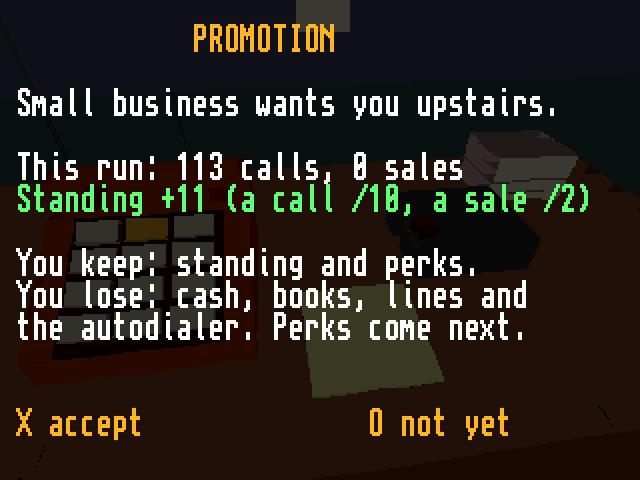
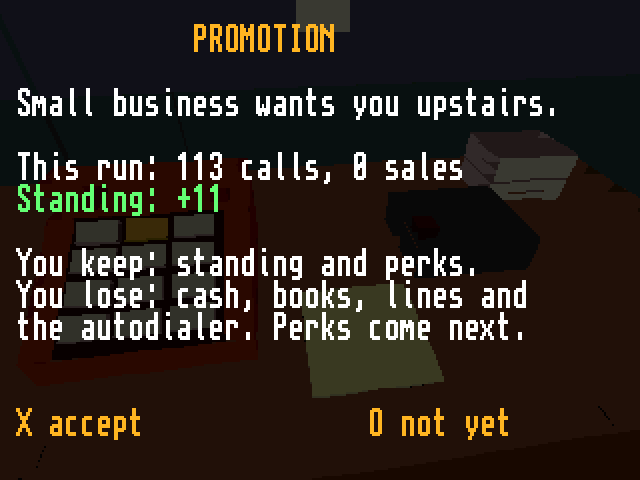
Phone books: autodialer needs a 2nd line, corp hands over a book you cannot afford, note scene goes quiet
The first autodialer was sellable with one line and then had nothing to dial on; the corp now rescues a game where every owned number is called and no book is affordable; the note screen's fast busy never stopped and now lasts 90 ticks; the promotion screen only says Standing: +N.

Changed region(s): [[0.25, 0.375, 0.625, 0.4375], [0.6562, 0.375, 0.9375, 0.4375]]

diff --git a/src/book_scene.cpp b/src/book_scene.cpp
@@ -185,6 +185,11 @@ void BookScene::start(StartReason reason) {
 		m_sim.DebugCash(DIALTONE_START_CASH);
 	}
 #endif
+#ifdef DIALTONE_FIRSTDONE
+	if (status != SaveSlot::Status::Loaded) {
+		m_sim.DebugFirstDone();
+	}
+#endif
 #ifdef DIALTONE_PREDIAL
 	// test builds: every residential book yours, every number but the last DIALTONE_PREDIAL called
 	if (status != SaveSlot::Status::Loaded) {
@@ -338,7 +343,8 @@ bool BookScene::ShopCategoryAffordable(uint8_t cat) const {
 	uint8_t first = cat == 0 ? 0 : 1, last = cat == 0 ? 1 : BookSim::SHOP_ENTRIES;
 	for (uint8_t i = first; i < last; i++) {
 		uint32_t price = m_sim.ShopPrice(i);
-		if (price && !(i >= 2 && !m_sim.HasAutodialer()) && !m_sim.ShopLocked(i) && m_sim.Cash() >= price) {
+		if (price && !(i >= 2 && !m_sim.HasAutodialer()) && !m_sim.ShopLocked(i) && !m_sim.ShopNeedsLine(i) &&
+			m_sim.Cash() >= price) {
 			return true;
 		}
 	}
@@ -462,9 +468,7 @@ void BookScene::HandleMenuButton(psyqo::AdvancedPad::Button button) {
 
 void BookScene::AfterPromotion(void) {
 	// a new desk: the lines, the autodialer and the books are gone, whatever was ringing stops
-	m_tones.Line(0, Tones::Cue::None);
-	m_tones.Line(1, Tones::Cue::None);
-	m_toneStop[0] = m_toneStop[1] = 0;
+	StopTones();
 	m_panelBook = m_sim.FirstOwned();
 	m_panelSel = 0;
 	m_panel = m_shop = false;
@@ -575,6 +579,7 @@ void BookScene::HandleButton(psyqo::AdvancedPad::Button button) {
 	if (m_noteScene) {
 		if (m_noteStep >= 6 && (button == Button::Cross || button == Button::Start)) {
 			m_noteScene = false;
+			StopTones();
 			m_sim.NoteSceneOver();
 			ClearOverlay();
 			RequestSave();
@@ -791,6 +796,19 @@ void BookScene::OnBookDone(uint8_t book) {
 	RequestSave();
 }
 
+void BookScene::OnBookGiven(uint8_t book) {
+	char top[40];
+	snprintf(top, sizeof(top), "   The corp sends you %s", BookSim::c_books[book].name);
+	Banner(240, c_amber, top, "   On the house. Start dialing.");
+	m_tones.Win();
+	if (m_sim.BookDone(m_panelBook)) {
+		m_panelBook = book;
+		m_panelSel = 0;
+		ClearPanel();
+	}
+	RequestSave();
+}
+
 void BookScene::OnNote(void) {
 	char number[8], text[10], top[40];
 	m_sim.NoteNumber(number);
@@ -805,7 +823,14 @@ void BookScene::OnNote(void) {
 	RequestSave();
 }
 
+void BookScene::StopTones(void) {
+	m_tones.Line(0, Tones::Cue::None);
+	m_tones.Line(1, Tones::Cue::None);
+	m_toneStop[0] = m_toneStop[1] = 0;
+}
+
 void BookScene::OnNoteAnswered(void) {
+	StopTones();
 	m_noteScene = true;
 	m_noteStep = 1;
 	m_noteTimer = NOTE_LINE_TICKS;
@@ -1011,6 +1036,8 @@ void BookScene::UpdateShop(void) {
 			SetRow(r++, c_grey, "%c%-17s needs autodialer", cursor, name);
 		} else if (price == 0) {
 			SetRow(r++, c_grey, "%c%-17s all bought", cursor, name);
+		} else if (m_sim.ShopNeedsLine(i)) {
+			SetRow(r++, c_grey, "%c%-17s needs a 2nd line", cursor, name);
 		} else if (m_sim.ShopLocked(i)) {
 			SetRow(r++, c_grey, "%c%-17s after promotion", cursor, name);
 		} else {
@@ -1043,7 +1070,10 @@ void BookScene::UpdateShop(void) {
 			SetRow(r++, c_green, "%d line%s now. One stays yours", m_sim.Lines(), m_sim.Lines() > 1 ? "s" : "");
 			break;
 		case 1:
-			if (!m_sim.HasAutodialer()) {
+			if (m_sim.ShopNeedsLine(1)) {
+				SetRow(r++, c_green, "Dials on a line of its own: buy");
+				SetRow(r++, c_green, "a 2nd line first.");
+			} else if (!m_sim.HasAutodialer()) {
 				SetRow(r++, c_green, "Dials a list you give it. Badly.");
 			} else if (m_sim.AutoLines() < m_sim.AutoLevel()) {
 				SetRow(r++, c_green, "Lv %d runs %d at once: needs lines", m_sim.AutoLevel(), m_sim.AutoLines());
@@ -1132,7 +1162,7 @@ void BookScene::UpdatePromo(void) {
 		SetRow(r++, c_white, again ? "Small business again, a new desk." : "Small business wants you upstairs.");
 		SetRow(r++, c_white, "");
 		SetRow(r++, c_white, "This run: %d calls, %d sales", m_sim.Calls(), m_sim.Connects());
-		SetRow(r++, c_green, "Standing +%d (a call /10, a sale /2)", m_sim.PromotionStanding());
+		SetRow(r++, c_green, "Standing: +%d", m_sim.PromotionStanding());
 		SetRow(r++, c_white, "");
 		SetRow(r++, c_white, "You keep: standing and perks.");
 		SetRow(r++, c_white, "You lose: cash, books, lines and");
@@ -1389,8 +1419,12 @@ void BookScene::frame() {
 				}
 			}
 		}
-		if (m_noteScene && m_noteStep == 6 && m_noteTimer < NOTE_LINE_TICKS - 90) {
-			m_tones.Line(0, Tones::Cue::None);
+		if (m_noteScene && m_noteStep == 6) {
+			// the dead line's fast busy lasts 90 ticks, then the scene is silent
+			m_noteTimer = m_noteTimer > deltaTime ? m_noteTimer - deltaTime : 0;
+			if (m_noteTimer < NOTE_LINE_TICKS - 90) {
+				m_tones.Line(0, Tones::Cue::None);
+			}
 		}
 
 		uint32_t cash = m_sim.Cash();

diff --git a/src/book_sim.cpp b/src/book_sim.cpp
@@ -772,6 +772,8 @@ bool BookSim::ShopLocked(uint8_t item) const {
 	return item == 1 && m_autoLevel >= AUTO_RESIDENTIAL_MAX && m_autoLevel < AUTO_MAX && m_promotions == 0;
 }
 
+bool BookSim::ShopNeedsLine(uint8_t item) const { return item == 1 && m_autoLevel == 0 && m_lineCount < 2; }
+
 uint32_t BookSim::ShopPrice(uint8_t item) const {
 	switch (item) {
 		case 0:
@@ -795,7 +797,7 @@ uint32_t BookSim::ShopPrice(uint8_t item) const {
 
 bool BookSim::Buy(uint8_t item) {
 	uint32_t price = ShopPrice(item);
-	if (price == 0 || m_cash < price || ShopLocked(item)) {
+	if (price == 0 || m_cash < price || ShopLocked(item) || ShopNeedsLine(item)) {
 		return false;
 	}
 	m_cash -= price;
@@ -871,6 +873,38 @@ bool BookSim::BuyPerk(uint8_t perk) {
 	return true;
 }
 
+// every owned number called, nothing in flight and too little cash for the cheapest book on sale: nobody
+// could ever pay for the next book, so the corp hands the cheapest one over
+void BookSim::CheckRescue(void) {
+	if (m_supRinging || LinesBusy() || AutoActive()) {
+		return;
+	}
+	for (uint8_t b = 0; b < BOOK_COUNT; b++) {
+		if (Owned(b) && !BookDone(b)) {
+			return;
+		}
+	}
+	uint8_t books[BOOK_COUNT];
+	uint8_t count = ForSaleList(books);
+	if (!count) {
+		return;
+	}
+	uint8_t cheapest = books[0];
+	for (uint8_t i = 1; i < count; i++) {
+		if (c_books[books[i]].price < c_books[cheapest].price) {
+			cheapest = books[i];
+		}
+	}
+	if (m_cash >= c_books[cheapest].price) {
+		return;
+	}
+	m_owned |= 1 << cheapest;
+	SetCorp("Take %s. On the house.", c_books[cheapest].name);
+	printf("DIALTONE: corp gave book %d %s cash=%d price=%d\n", cheapest + 1, c_books[cheapest].name, m_cash,
+		   c_books[cheapest].price);
+	m_listener->OnBookGiven(cheapest);
+}
+
 void BookSim::Tick(uint32_t ticks) {
 	while (ticks--) {
 		m_simTick++;
@@ -879,6 +913,9 @@ void BookSim::Tick(uint32_t ticks) {
 		}
 		TickAutodialer();
 		TickSupervisor();
+		if (m_simTick % 60 == 0) {
+			CheckRescue();
+		}
 		// a quiet corp line gets a new line of flavour now and then
 		if (++m_corpIdle >= 25 * 60 && !m_supRinging) {
 			SetCorp("%s", c_corpIdle[m_rand->rand(sizeof(c_corpIdle) / sizeof(c_corpIdle[0]))]);
@@ -1012,6 +1049,14 @@ void BookSim::Load(const BookSave& in) {
 	CheckNote();
 	printf("DIALTONE: books loaded seed=%08x cash=%d calls=%d owned=%02x done=%d note=%d category=%d standing=%d\n",
 		   m_seed, m_cash, m_calls, m_owned, BooksDoneIn(m_category), m_noteState, m_category, m_standing);
+}
+
+void BookSim::DebugFirstDone(void) {
+	for (uint8_t i = 0; i < c_books[0].entries; i++) {
+		m_status[0][i] = uint8_t(m_duds[0][i] ? Entry::Dud : Entry::NoAnswer);
+		m_calls++;
+	}
+	printf("DIALTONE: first book called to the end\n");
 }
 
 void BookSim::DebugPredial(uint8_t leave) {

diff --git a/docs/phonebooks.md b/docs/phonebooks.md
@@ -70,7 +70,9 @@ its parts) and Books. A tab with something you can afford right now carries an a
 see that books are for sale. The Books tab lists each book for sale on its own row; the one under
 the cursor shows only how many numbers it has and "up to N% duds". Its pick-up chance and what a
 call and a sale pay you find out by dialing. A category's first book is handed to you. Finishing books puts more
-of them up for sale, so after Elm Street you choose between two.
+of them up for sale, so after Elm Street you choose between two. If every number in the books you own has been called and
+you cannot afford the cheapest book for sale, nothing could ever pay for it, so the corp hands that book
+over free with a line on its message row.
 
 | Book | Numbers | Duds | Pick-up | Fee | Bonus | Price | For sale after |
 | --- | --- | --- | --- | --- | --- | --- | --- |
@@ -97,7 +99,7 @@ line busy the keypad gets "every line is busy".
 
 ## The autodialer starts out bad, on purpose
 
-$25 in supplies. It sits on the desk in its own box with a red readout, like an alarm clock: the top
+$25 in supplies, once you own a second line (with one line it has nothing to dial on, and the Autodialer tab says `needs a 2nd line`). It sits on the desk in its own box with a red readout, like an alarm clock: the top
 row is the number it is dialing, digit by digit (`READY` between calls, `NO LIST` with nothing to
 dial), the bottom row is `L` calls going / calls it may run, and `Q` how many numbers are on its
 list. Its lamp blinks while it has a call going. The phone's keypad lights only for your own
@@ -166,7 +168,7 @@ promotion.
 
 In the office, X on the promotion shows what it pays and what it takes: you get standing, a point
 for every 10 calls and every 2 sales of this run, and you lose your cash, your books, your lines and
-the autodialer. X accepts, O turns it down for now. Then the perks: standing buys them for good,
+the autodialer; the screen itself only says `Standing: +N`. X accepts, O turns it down for now. Then the perks: standing buys them for good,
 and unspent standing stays for the next time.
 
 | Perk | A level does | Levels | Price |
